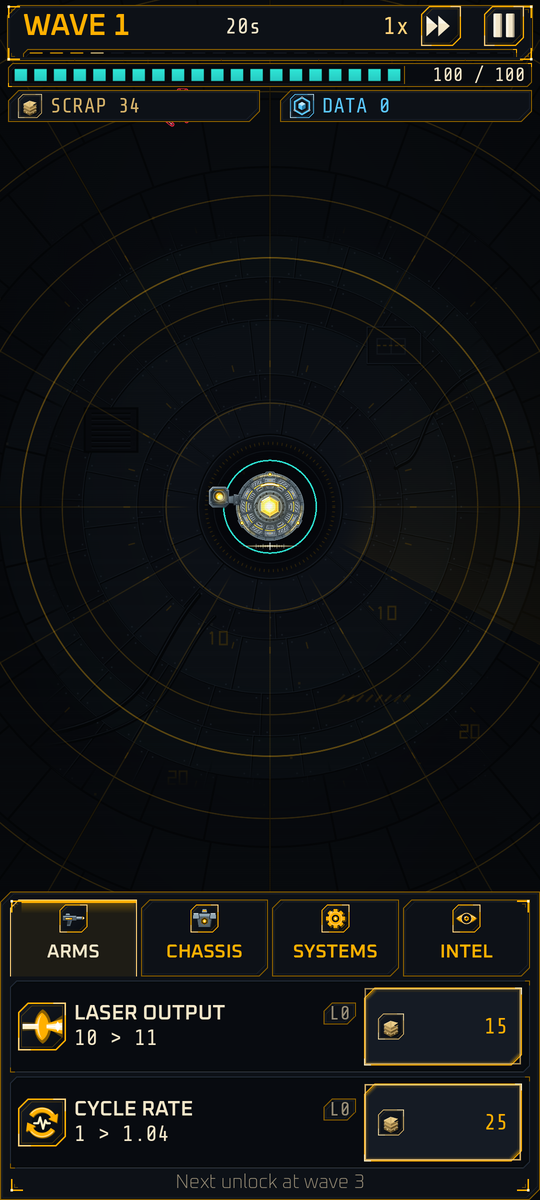
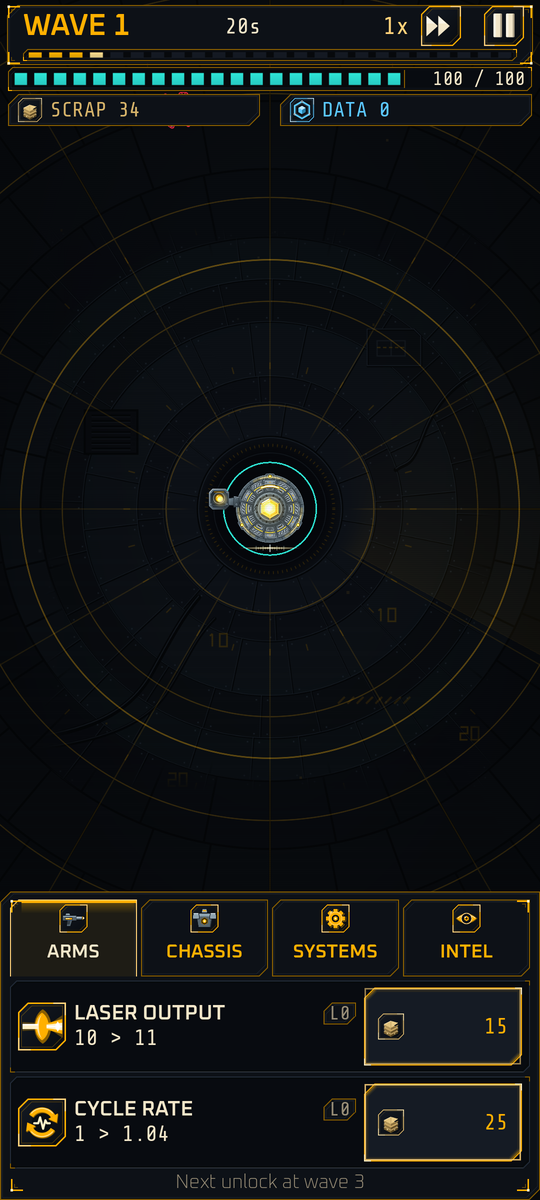
feat(V1-27): row tooltip opens below its row; readable wave timer bar
- RowTooltip is inserted under the tapped row in the scroll content and scrolls both into view;
  closes on re-tap, another row's buy, drag-scroll, hide or after 3 s (upgrade_row.gd back under 300 lines)
- Wave timer bar 16 -> 24 px (segments 4 -> 16 px tall); HUD 244 -> 252 px; insets follow
- README captures 01_wave1 and 03_upgrades re-rendered

Claude-Session: https://claude.ai/code/session_01EmsW2nTdRobewtRBUveLH5

diff --git a/docs/tasks/V1.md b/docs/tasks/V1.md
@@ -243,3 +243,12 @@ Critical path: V1-01 -> gate -> V1-02 -> V1-05 -> V1-10 -> V1-13/V1-11 -> V1-14 
 - **Result (1080 wide):** HUD 365 -> 244 px (line 1 84, timer bar 16, integrity 48, chips 64, plus gaps), plus the safe-area inset. Panel height follows content (ARMS at wave 1: 617 px at 1080x2400) capped at 36 percent. Unobstructed field (HUD bottom to panel top): 1080x2400 980 -> 1539 px; 1080x2341 (cover) about 946 -> 1480 px; near-square 1990x1920 viewport 1059 px. Captures `docs/playtests/v1/V1-25_450x1000.png` (1080x2400), `V1-25_440x954.png` (1080x2341), `V1-25_1076x1038.png` (1990x1920).
 - **Decisions (impl):** hold timing in `RepeatBuyModel`: first repeat 0.35 s, interval easing linearly 250 -> 50 ms over the next 2 s, 10 levels per step after 3 s of hold and 100 after 6 s (the sim's `command_buy` only accepts 1, 10, 100 and Max, so no 5/25; partial buys are the sim's existing rule). The hold ends at the cap or when the row is not affordable at a repeat step; a drag past 24 px or a scrolled row cancels the tap and the hold. The panel emits `buy_requested(index, count)` unchanged (sim and input log untouched). The insets sent to the view: top = lowest HUD plate bottom, bottom = screen height minus panel top (includes the safe-area bottom margin).
 - **Not done:** near-square layout is still the stretched phone layout (see V1-24 note).
+
+## V1-27 UI polish (tooltip placement, wave timer bar)
+- **Status:** done (desktop captures; device check by the main agent).
+- **Goal:** README captures showed the row tooltip covering its own row header (name and level hidden) and a barely visible 16 px wave timer bar.
+- **Files:** `src/ui/row_tooltip.gd` (new), `src/ui/upgrade_row.gd` + `.tscn` (tooltip node, timer and label removed; 301 -> about 297 lines), `src/ui/segmented_bar.gd` (`inset`), `src/ui/hud.gd` + `hud.tscn`, tests `test_row_tap_hold` (new placement test), `test_hud_layout` (timer bar >= 24 px, HUD <= 252 px), `build/capture_readme.gd` (panel mode scrolls to 0, then opens the tooltip).
+- **Tooltip:** `RowTooltip` is a sibling of the row inside the panel's scroll content, inserted directly below it, so it cannot hide the row. After one frame of layout it scrolls the nearest ScrollContainer so row and tooltip are both visible (row top wins if they cannot both fit). It closes after 3 s, on tapping the row again or another row's cost button, when the list is drag-scrolled (`scroll_started`), and when the row hides or is freed. (impl) It always opens below; "above when no room" is not needed because the list scrolls instead.
+- **Timer bar:** 16 -> 24 px with a 4 px frame inset (16 px tall segments, was 4), lit segments HUD amber, unlit dim as before. Top plate bottom 122 -> 130, integrity bar and chips shift down 8: HUD bottom 244 -> 252 px (+8).
+- **Captures (1080x2400, saved at 540 wide):** `docs/playtests/v1/V1-27_tooltip.png`, `V1-27_hud.png`; before: `V1-27_before_panel.png`, `V1-27_before_calm.png`. `docs/readme/01_wave1.png` and `03_upgrades.png` re-rendered (under 400 KB).
+- **Not done:** the capture shows wave 1 early (timer 4 of 24 segments lit); a mid-wave HUD capture was not added.
